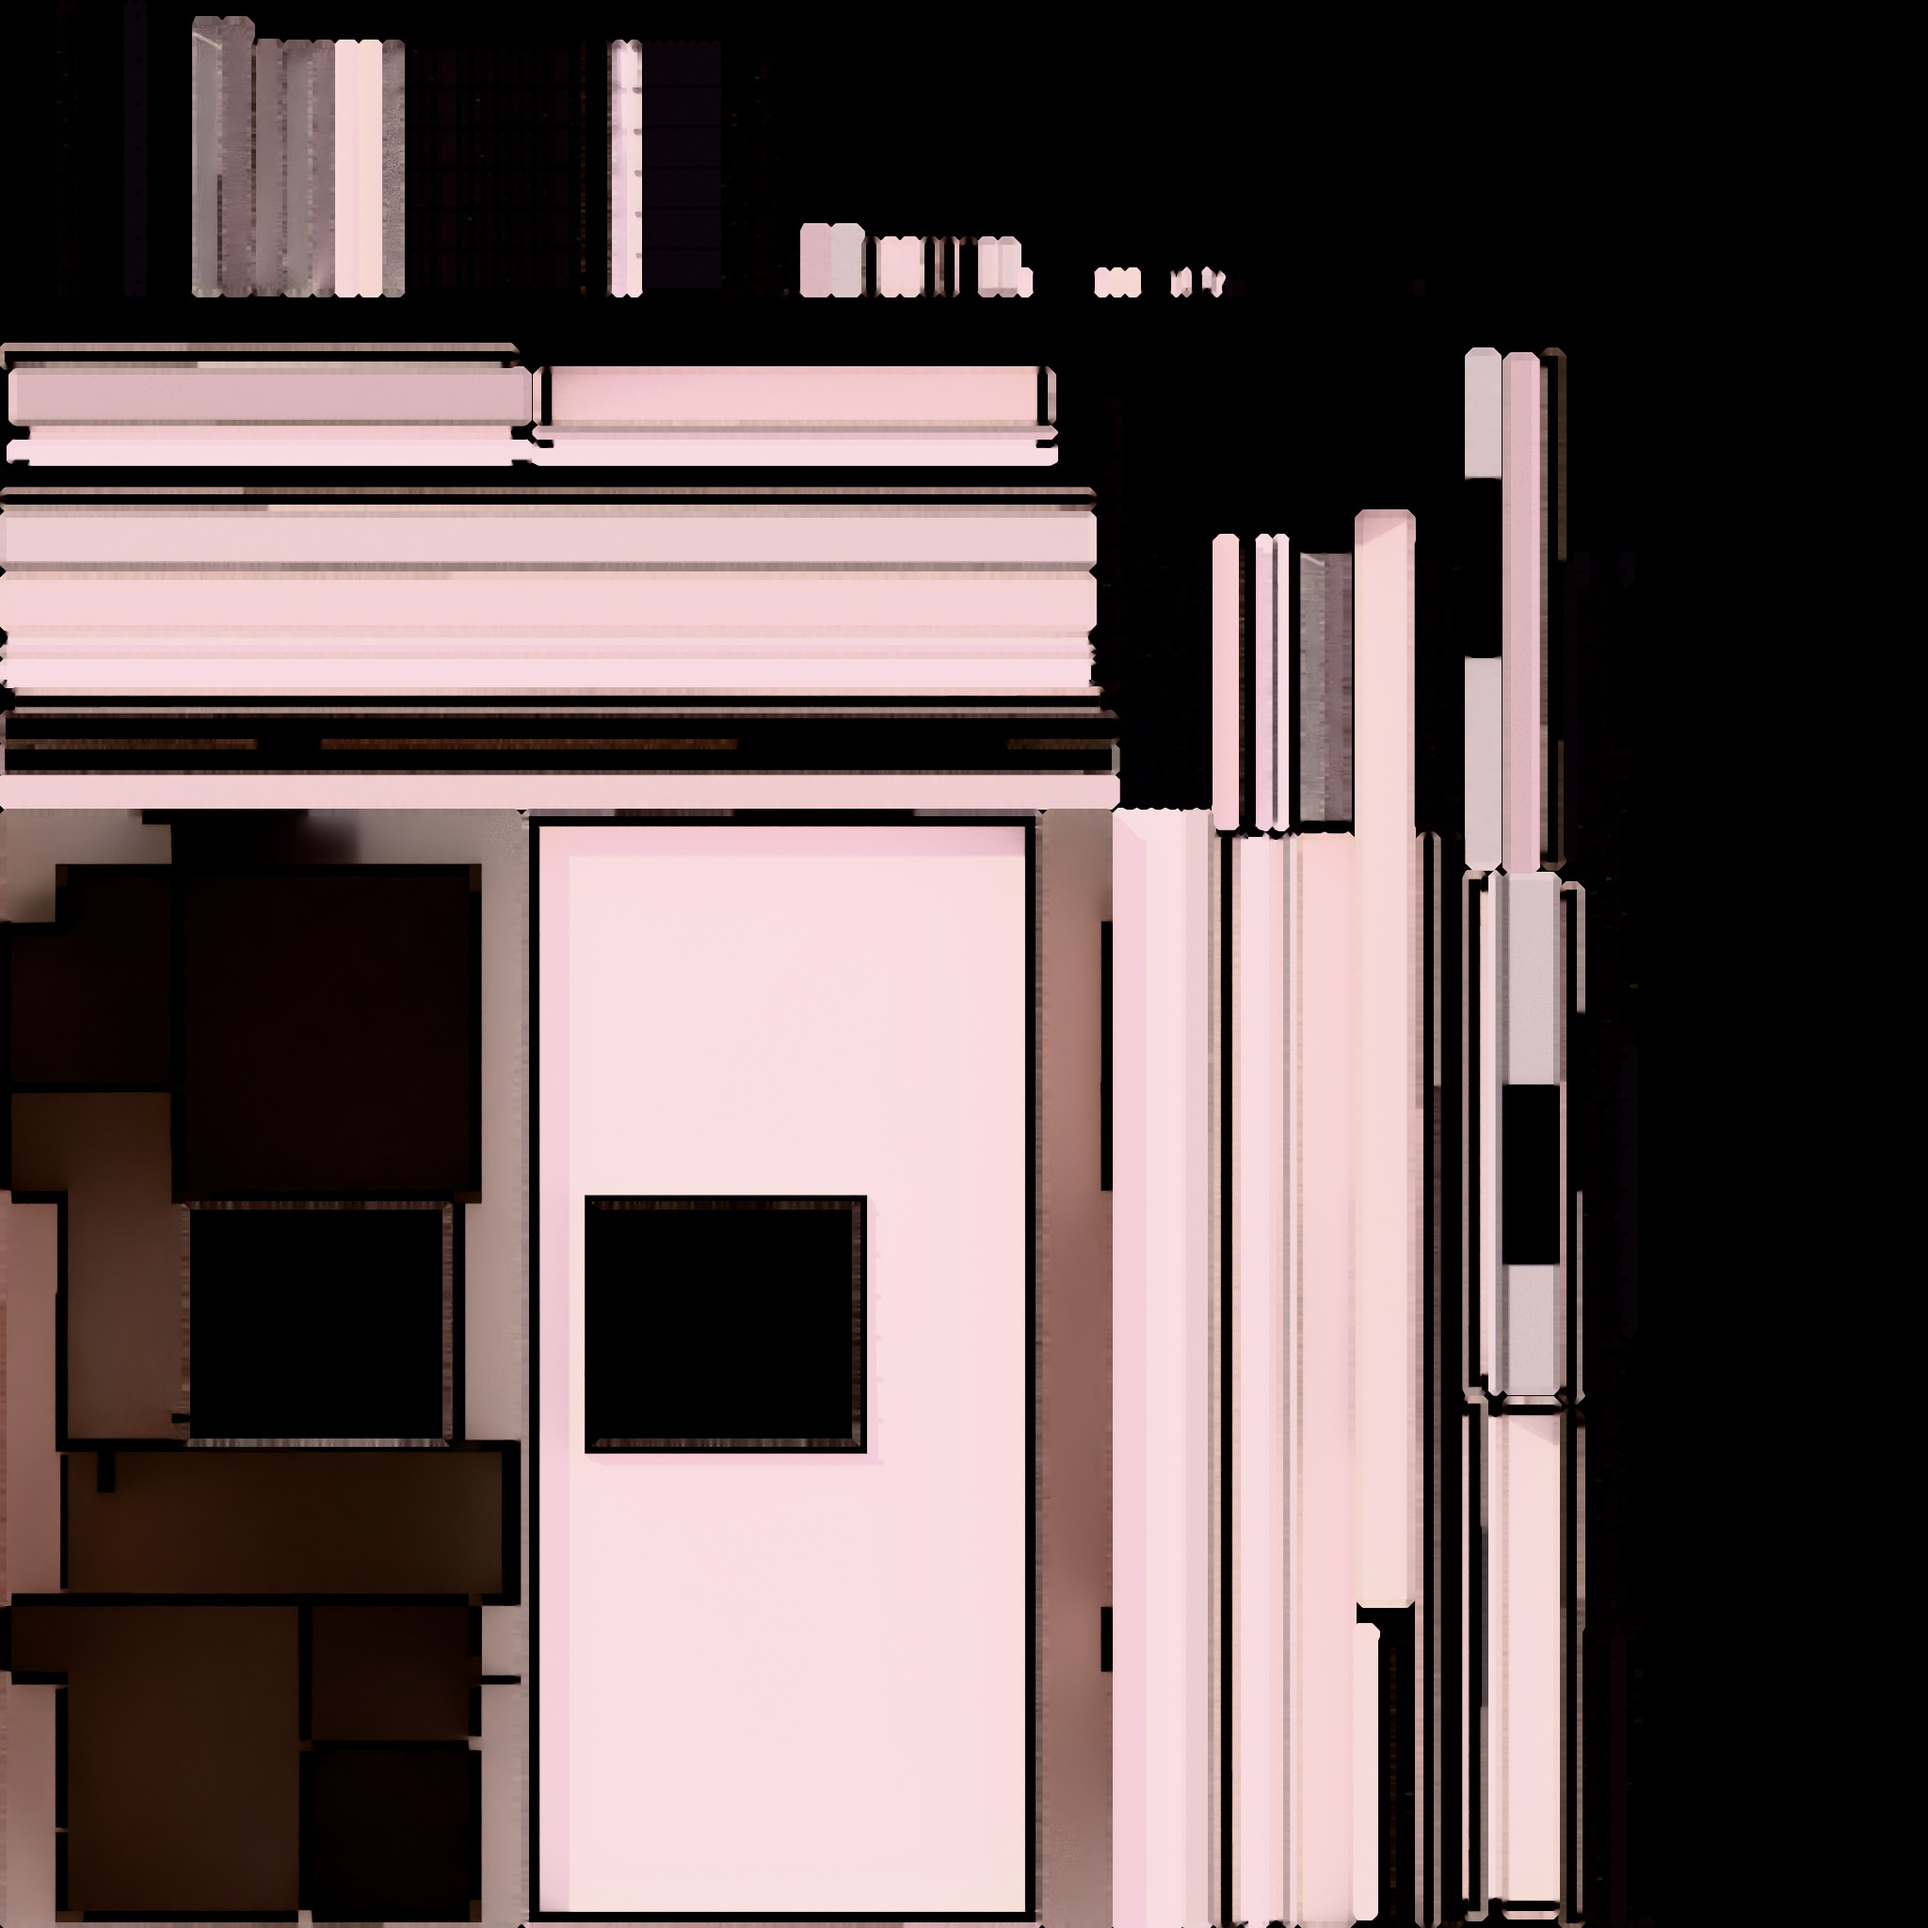
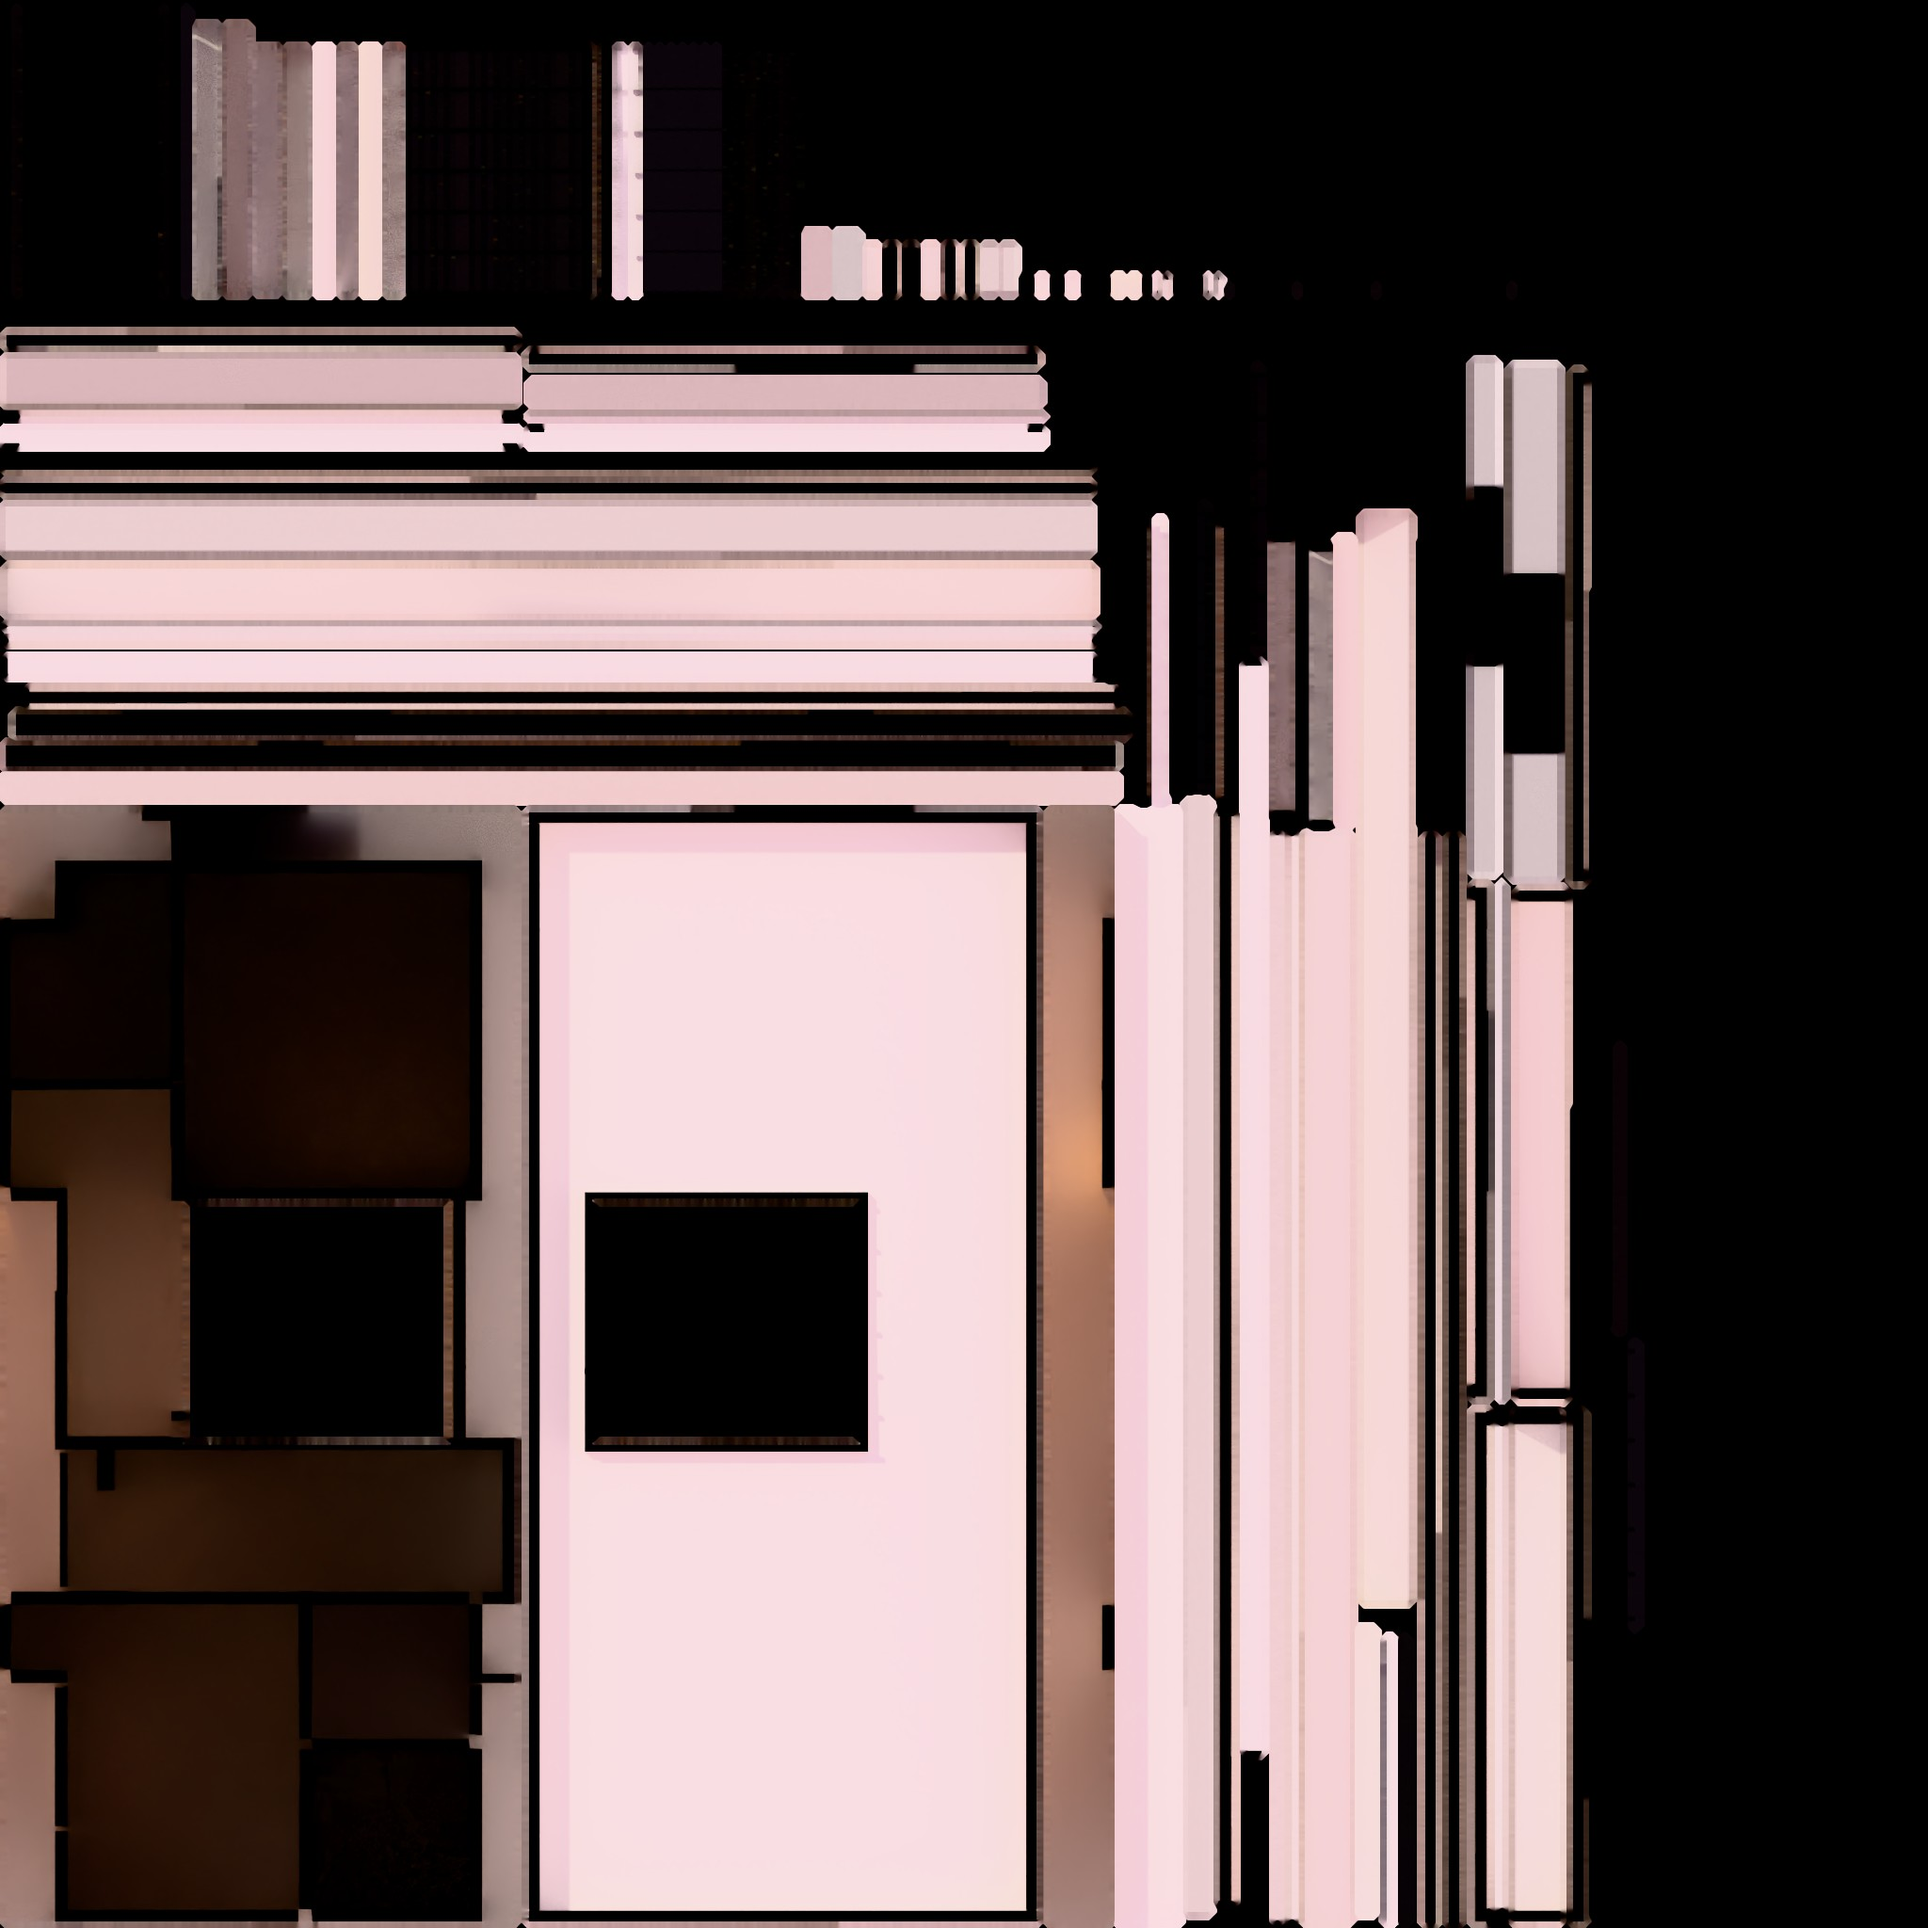
bake: roof-day

diff --git a/blender/LOG.md b/blender/LOG.md
@@ -42,3 +42,4 @@
 - 2026-10-06 03:00 ground-day: bake 4148 s (4096, 256 spp, CPU). Unlit glTF matches the café reference; jpg 2.6 MB, bin 7.6 MB.
 - 2026-10-06 04:42 first-day: bake 6015 s (4096, 256 spp, CPU), over 90 min; kept rather than re-bake lower. Includes the new PS5 room; court people baked in. jpg 2.6 MB, bin 4.4 MB.
 - 2026-10-06 06:26 second-day: bake 6175 s (4096, 256 spp, CPU), over 90 min; kept. Matches the terrace reference. jpg 2.2 MB, bin 2.6 MB.
+- 2026-10-06 06:45 roof-day: bake 1061 s (2048, 192 spp, CPU). Clean; skylight frame and copings read; no room reference (none listed for the roof).

diff --git a/blender/BAKE.md b/blender/BAKE.md
@@ -35,7 +35,7 @@ Every space is baked alone, cut to the same kind of box, with identical light, s
 - [x] ground-day (.bin 7.6 MB, close to the 8 MB budget)
 - [x] first-day (bake took 100 min at 4096/256, over the 90 min line; kept, but bake first-night at --samples 192)
 - [x] second-day (103 min at 4096/256, over the 90 min line; kept, but bake second-night at --samples 192)
-- [ ] roof-day
+- [x] roof-day (no main room: checked the unlit view and atlas)
 - [ ] site-day
 
 ## Night set (sun off, sky at 4%, lamps and glow materials at 6x)
